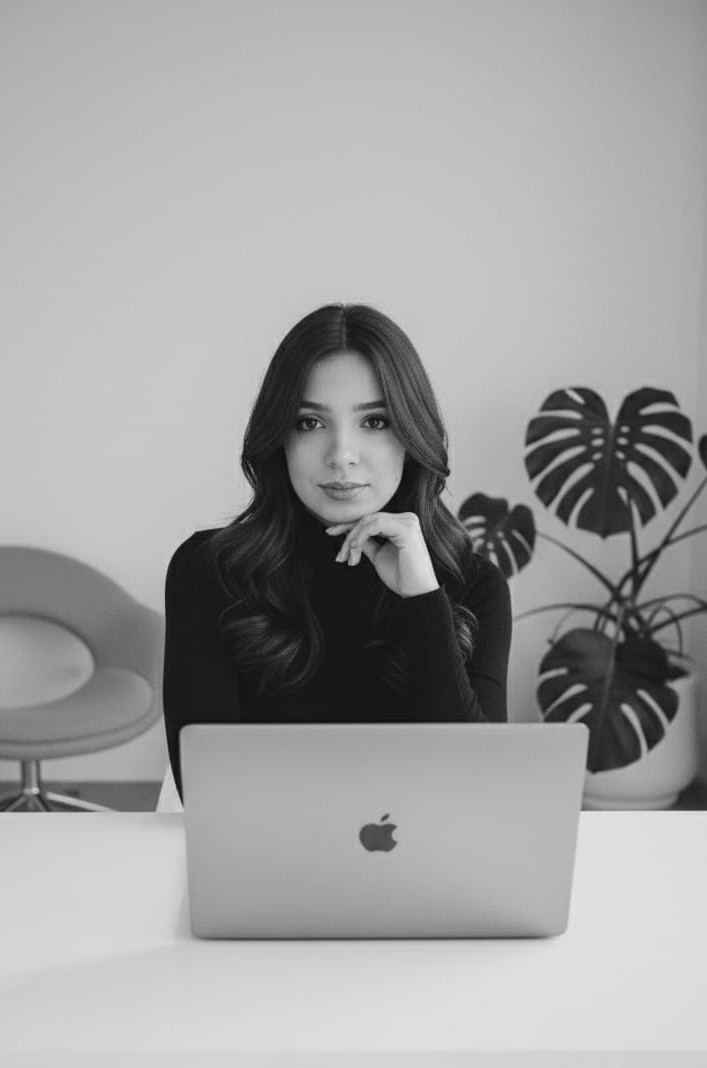
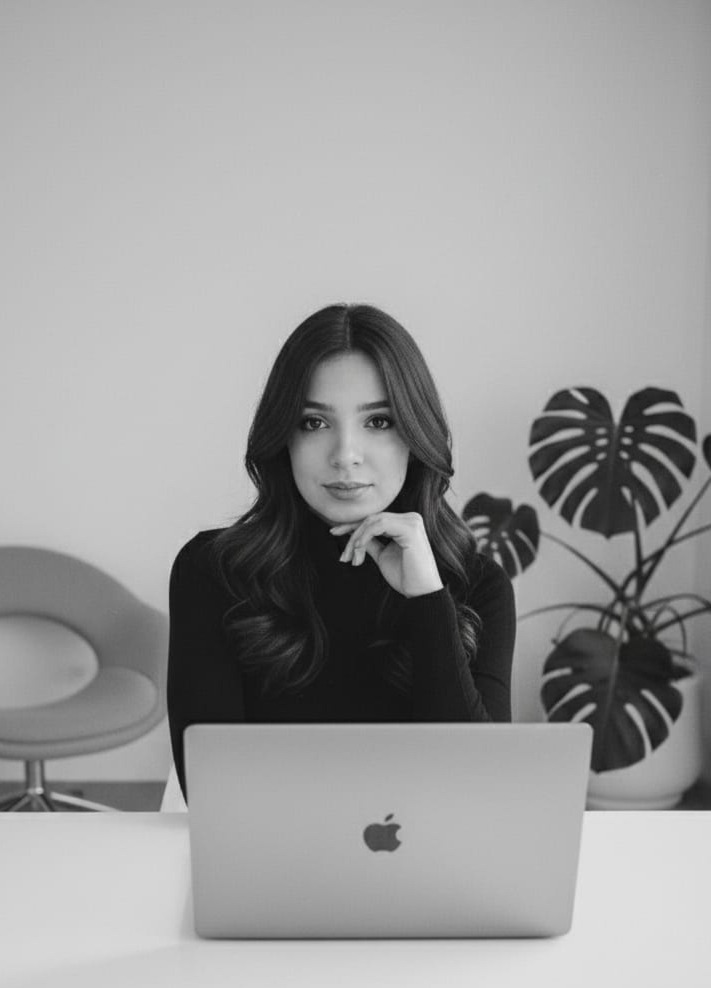
feat: Atualizar imagem do perfil para nova versão em formato JPG

Changed region(s): [[0.0, 0.2733, 1.0, 0.9717], [0.3423, 0.5769, 0.3734, 0.6377]]

diff --git a/index.css b/index.css
@@ -186,12 +186,7 @@ body {
     position: relative;
     border-radius: 50%;
     overflow: hidden;
-    border: 10px solid transparent;
-    background: linear-gradient(45deg, #8B5CF6, #A855F7, #8B5CF6, #A855F7) border-box;
-    -webkit-mask: linear-gradient(#fff 0 0) padding-box, linear-gradient(#fff 0 0);
-    -webkit-mask-composite: exclude;
-    mask: linear-gradient(#fff 0 0) padding-box, linear-gradient(#fff 0 0);
-    mask-composite: exclude;
+    border: 4px solid #8B5CF6;
     box-shadow: 
         0 0 35px rgba(139, 92, 246, 0.6),
         0 0 70px rgba(139, 92, 246, 0.4),
@@ -241,6 +236,9 @@ body {
     height: 100%;
     object-fit: cover;
     border-radius: 50%;
+    position: relative;
+    z-index: 2;
+    display: block;
 }
 
 /* Navigation Arrows */

diff --git a/index.html b/index.html
@@ -52,7 +52,7 @@
                         </div>
                         
                         <div class="profile-circle">
-                            <img src="img/amanda.jpg" alt="Amanda Ferreira" class="profile-img">
+                            <img src="img/Amanda.JPG" alt="Amanda Ferreira" class="profile-img">
                         </div>
                         
                         <!-- Seta Direita -->
